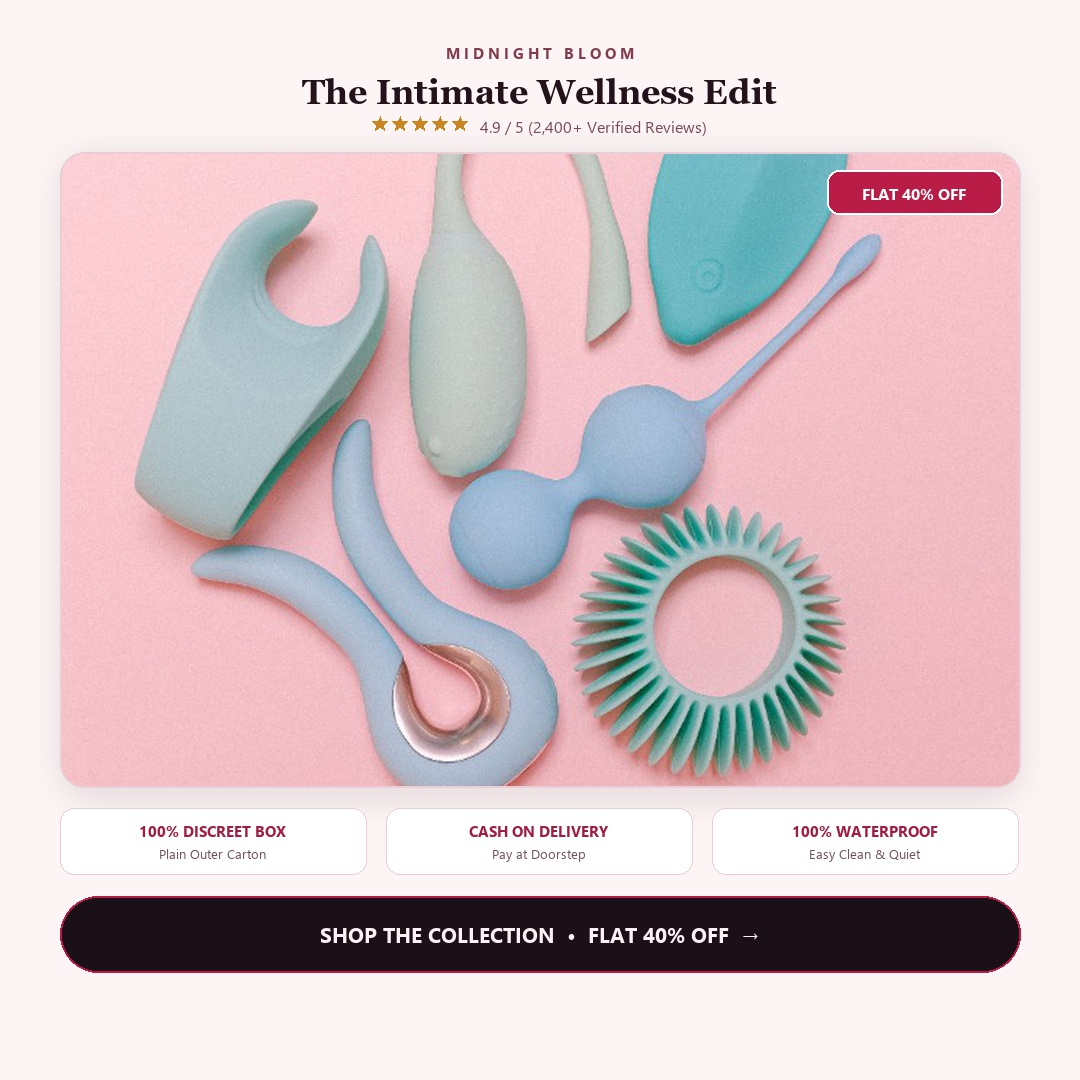
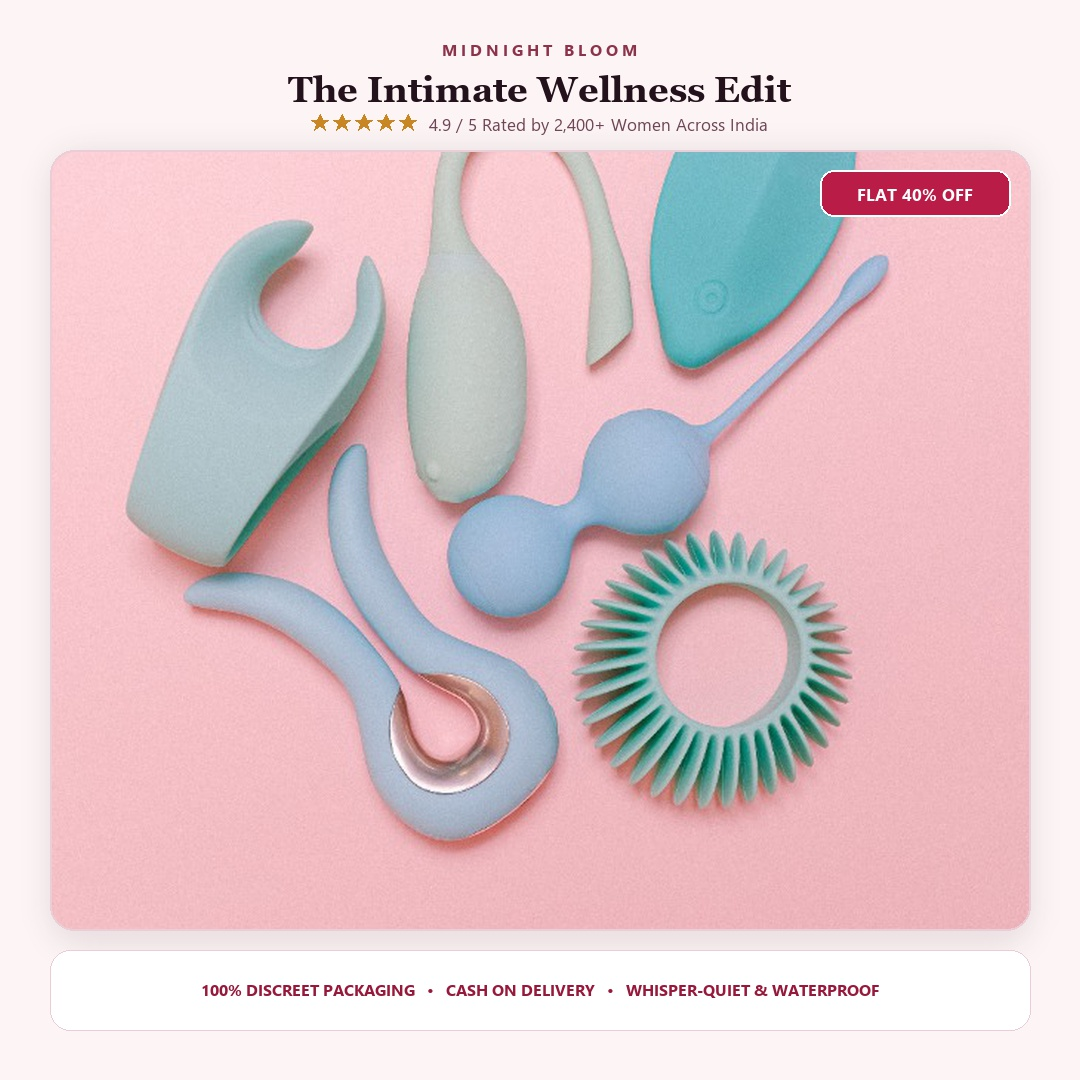
fix(ads): native feed formatting with left-shifted crop and clean trust strip

diff --git a/scripts/generate_meta_feed_ads.py b/scripts/generate_meta_feed_ads.py
@@ -1,0 +1,383 @@
+import os
+import math
+import shutil
+from PIL import Image, ImageDraw, ImageFont, ImageFilter
+
+def get_font(name, size):
+    paths = [
+        f"C:/Windows/Fonts/{name}",
+        f"C:/Windows/Fonts/{name.lower()}",
+        f"C:/Windows/Fonts/{name.upper()}",
+    ]
+    for p in paths:
+        if os.path.exists(p):
+            try:
+                return ImageFont.truetype(p, size)
+            except Exception:
+                pass
+    for fallback in ["georgiab.ttf", "georgia.ttf", "segoeuib.ttf", "segoeui.ttf", "arialbd.ttf", "arial.ttf"]:
+        p = f"C:/Windows/Fonts/{fallback}"
+        if os.path.exists(p):
+            try:
+                return ImageFont.truetype(p, size)
+            except Exception:
+                pass
+    return ImageFont.load_default()
+
+def draw_pill(draw, x1, y1, x2, y2, bg_color, outline_color=None, radius=16, width=1):
+    draw.rounded_rectangle([x1, y1, x2, y2], radius=radius, fill=bg_color, outline=outline_color, width=width)
+
+def draw_star(draw, cx, cy, radius, fill_color, points=5):
+    coords = []
+    inner_radius = radius * 0.42
+    for i in range(points * 2):
+        r = radius if i % 2 == 0 else inner_radius
+        angle = i * math.pi / points - math.pi / 2
+        x = cx + r * math.cos(angle)
+        y = cy + r * math.sin(angle)
+        coords.append((x, y))
+    draw.polygon(coords, fill=fill_color)
+
+def draw_star_rating(draw, start_x, start_y, star_size=9, gap=4, count=5, fill_color=(212, 175, 55, 255)):
+    for i in range(count):
+        cx = start_x + i * (star_size * 2 + gap) + star_size
+        cy = start_y + star_size
+        draw_star(draw, cx, cy, star_size, fill_color)
+
+# =========================================================================
+# CLEAN META FEED ADS (1:1 Square - 1080 x 1080)
+# Designed specifically for Instagram/Facebook Feed without clutter
+# =========================================================================
+def create_meta_feed_ad(src_path, out_path, headline, sub_benefit, discount_text, trust_points, theme="rose", crop_rect=None):
+    W, H = 1080, 1080
+    
+    if theme == "dark":
+        bg_main = (16, 12, 18, 255)
+        text_brand = (212, 175, 55, 255)
+        text_head = (255, 250, 245, 255)
+        text_sub = (205, 185, 195, 255)
+        card_border = (212, 175, 55, 180)
+        badge_bg = (212, 175, 55, 255)
+        badge_text = (16, 12, 18, 255)
+        strip_bg = (28, 20, 30, 255)
+        strip_border = (80, 55, 75, 255)
+        strip_text_color = (235, 210, 160, 255)
+        star_color = (212, 175, 55, 255)
+    else:
+        bg_main = (253, 244, 245, 255)
+        text_brand = (140, 50, 75, 255)
+        text_head = (35, 18, 28, 255)
+        text_sub = (110, 70, 85, 255)
+        card_border = (235, 205, 215, 255)
+        badge_bg = (185, 28, 70, 255)
+        badge_text = (255, 255, 255, 255)
+        strip_bg = (255, 255, 255, 255)
+        strip_border = (235, 205, 215, 255)
+        strip_text_color = (150, 25, 60, 255)
+        star_color = (200, 135, 35, 255)
+
+    base = Image.new("RGBA", (W, H), bg_main)
+    draw = ImageDraw.Draw(base)
+
+    # Fonts
+    font_brand = get_font("segoeuib.ttf", 16)
+    font_head = get_font("georgiab.ttf", 36)
+    font_sub = get_font("segoeui.ttf", 17)
+    font_badge = get_font("segoeuib.ttf", 17)
+    font_strip = get_font("segoeuib.ttf", 16)
+
+    # 1. TOP HEADER (40px padding, clean breathing room)
+    brand_t = "M I D N I G H T   B L O O M"
+    bb = font_brand.getbbox(brand_t)
+    bw = bb[2] - bb[0]
+    draw.text(((W - bw) // 2, 38), brand_t, fill=text_brand, font=font_brand)
+
+    hb = font_head.getbbox(headline)
+    hw = hb[2] - hb[0]
+    draw.text(((W - hw) // 2, 68), headline, fill=text_head, font=font_head)
+
+    # Rating & Benefit Row
+    sb = font_sub.getbbox(sub_benefit)
+    sw = sb[2] - sb[0]
+    stars_w = 5 * 18 + 4 * 4
+    total_r_w = stars_w + 12 + sw
+    start_rx = (W - total_r_w) // 2
+    draw_star_rating(draw, start_rx, 114, star_size=9, gap=4, count=5, fill_color=star_color)
+    draw.text((start_rx + stars_w + 12, 112), sub_benefit, fill=text_sub, font=font_sub)
+
+    # 2. HERO IMAGE CARD (Full 980 x 780 Area - Fills the main frame elegantly)
+    card_x = 50
+    card_y = 150
+    card_w = 980
+    card_h = 780
+    card_radius = 24
+
+    src = Image.open(src_path).convert("RGBA")
+    if crop_rect:
+        src = src.crop(crop_rect)
+
+    scale = max(card_w / src.width, card_h / src.height)
+    new_w = int(src.width * scale)
+    new_h = int(src.height * scale)
+    src_scaled = src.resize((new_w, new_h), Image.Resampling.LANCZOS)
+    
+    crop_x = (new_w - card_w) // 2
+    crop_y = (new_h - card_h) // 2
+    src_card = src_scaled.crop((crop_x, crop_y, crop_x + card_w, crop_y + card_h))
+
+    # Soft Shadow
+    shadow = Image.new("RGBA", (W, H), (0, 0, 0, 0))
+    s_draw = ImageDraw.Draw(shadow)
+    shadow_color = (0, 0, 0, 50) if theme == "dark" else (180, 130, 140, 45)
+    s_draw.rounded_rectangle([card_x + 6, card_y + 8, card_x + card_w - 6, card_y + card_h + 8], radius=card_radius, fill=shadow_color)
+    shadow = shadow.filter(ImageFilter.GaussianBlur(16))
+    base.alpha_composite(shadow)
+
+    mask = Image.new("L", (card_w, card_h), 0)
+    m_draw = ImageDraw.Draw(mask)
+    m_draw.rounded_rectangle([0, 0, card_w, card_h], radius=card_radius, fill=255)
+    base.paste(src_card, (card_x, card_y), mask)
+
+    draw = ImageDraw.Draw(base)
+    draw.rounded_rectangle([card_x, card_y, card_x + card_w, card_y + card_h], radius=card_radius, outline=card_border, width=2)
+
+    # Floating Discount Badge (Top-Right inside Card)
+    badge_w = 190
+    badge_h = 46
+    bx1 = card_x + card_w - badge_w - 20
+    by1 = card_y + 20
+    draw_pill(draw, bx1, by1, bx1 + badge_w, by1 + badge_h, badge_bg, (255, 255, 255, 255), radius=14, width=2)
+    
+    db = font_badge.getbbox(discount_text)
+    dw = db[2] - db[0]
+    draw.text((bx1 + (badge_w - dw) // 2, by1 + 12), discount_text, fill=badge_text, font=font_badge)
+
+    # 3. BOTTOM TRUST STRIP (980px Width, Clean & Uncluttered)
+    strip_y = 950
+    strip_h = 80
+    draw_pill(draw, card_x, strip_y, card_x + card_w, strip_y + strip_h, strip_bg, strip_border, radius=20, width=1)
+    
+    # 3 Trust items with dividers
+    trust_text = "   •   ".join(trust_points)
+    tb = font_strip.getbbox(trust_text)
+    tw = tb[2] - tb[0]
+    draw.text((card_x + (card_w - tw) // 2, strip_y + 28), trust_text, fill=strip_text_color, font=font_strip)
+
+    final_img = base.convert("RGB")
+    final_img.save(out_path, "JPEG", quality=95)
+    print(f"Saved Feed Ad: {out_path}")
+
+
+# =========================================================================
+# 4:5 VERTICAL PORTRAIT FEED ADS (1080 x 1350)
+# The highest converting mobile Instagram/Facebook feed format
+# =========================================================================
+def create_portrait_4_5_ad(src_path, out_path, headline, sub_benefit, discount_text, trust_points, theme="rose", crop_rect=None):
+    W, H = 1080, 1350
+    
+    if theme == "dark":
+        bg_main = (16, 12, 18, 255)
+        text_brand = (212, 175, 55, 255)
+        text_head = (255, 250, 245, 255)
+        text_sub = (205, 185, 195, 255)
+        card_border = (212, 175, 55, 180)
+        badge_bg = (212, 175, 55, 255)
+        badge_text = (16, 12, 18, 255)
+        strip_bg = (28, 20, 30, 255)
+        strip_border = (80, 55, 75, 255)
+        strip_text_color = (235, 210, 160, 255)
+        star_color = (212, 175, 55, 255)
+    else:
+        bg_main = (253, 244, 245, 255)
+        text_brand = (140, 50, 75, 255)
+        text_head = (35, 18, 28, 255)
+        text_sub = (110, 70, 85, 255)
+        card_border = (235, 205, 215, 255)
+        badge_bg = (185, 28, 70, 255)
+        badge_text = (255, 255, 255, 255)
+        strip_bg = (255, 255, 255, 255)
+        strip_border = (235, 205, 215, 255)
+        strip_text_color = (150, 25, 60, 255)
+        star_color = (200, 135, 35, 255)
+
+    base = Image.new("RGBA", (W, H), bg_main)
+    draw = ImageDraw.Draw(base)
+
+    font_brand = get_font("segoeuib.ttf", 17)
+    font_head = get_font("georgiab.ttf", 40)
+    font_sub = get_font("segoeui.ttf", 18)
+    font_badge = get_font("segoeuib.ttf", 18)
+    font_strip = get_font("segoeuib.ttf", 17)
+
+    # 1. Top Header
+    brand_t = "M I D N I G H T   B L O O M"
+    bb = font_brand.getbbox(brand_t)
+    bw = bb[2] - bb[0]
+    draw.text(((W - bw) // 2, 45), brand_t, fill=text_brand, font=font_brand)
+
+    hb = font_head.getbbox(headline)
+    hw = hb[2] - hb[0]
+    draw.text(((W - hw) // 2, 78), headline, fill=text_head, font=font_head)
+
+    # Rating Row
+    sb = font_sub.getbbox(sub_benefit)
+    sw = sb[2] - sb[0]
+    stars_w = 5 * 20 + 4 * 5
+    total_r_w = stars_w + 14 + sw
+    start_rx = (W - total_r_w) // 2
+    draw_star_rating(draw, start_rx, 130, star_size=10, gap=5, count=5, fill_color=star_color)
+    draw.text((start_rx + stars_w + 14, 128), sub_benefit, fill=text_sub, font=font_sub)
+
+    # 2. Hero Card (980 x 1030 px)
+    card_x = 50
+    card_y = 175
+    card_w = 980
+    card_h = 1030
+    card_radius = 26
+
+    src = Image.open(src_path).convert("RGBA")
+    if crop_rect:
+        src = src.crop(crop_rect)
+
+    scale = max(card_w / src.width, card_h / src.height)
+    new_w = int(src.width * scale)
+    new_h = int(src.height * scale)
+    src_scaled = src.resize((new_w, new_h), Image.Resampling.LANCZOS)
+    
+    crop_x = (new_w - card_w) // 2
+    crop_y = (new_h - card_h) // 2
+    src_card = src_scaled.crop((crop_x, crop_y, crop_x + card_w, crop_y + card_h))
+
+    shadow = Image.new("RGBA", (W, H), (0, 0, 0, 0))
+    s_draw = ImageDraw.Draw(shadow)
+    shadow_color = (0, 0, 0, 50) if theme == "dark" else (180, 130, 140, 45)
+    s_draw.rounded_rectangle([card_x + 6, card_y + 8, card_x + card_w - 6, card_y + card_h + 8], radius=card_radius, fill=shadow_color)
+    shadow = shadow.filter(ImageFilter.GaussianBlur(16))
+    base.alpha_composite(shadow)
+
+    mask = Image.new("L", (card_w, card_h), 0)
+    m_draw = ImageDraw.Draw(mask)
+    m_draw.rounded_rectangle([0, 0, card_w, card_h], radius=card_radius, fill=255)
+    base.paste(src_card, (card_x, card_y), mask)
+
+    draw = ImageDraw.Draw(base)
+    draw.rounded_rectangle([card_x, card_y, card_x + card_w, card_y + card_h], radius=card_radius, outline=card_border, width=2)
+
+    # Floating Discount Badge
+    badge_w = 210
+    badge_h = 50
+    bx1 = card_x + card_w - badge_w - 24
+    by1 = card_y + 24
+    draw_pill(draw, bx1, by1, bx1 + badge_w, by1 + badge_h, badge_bg, (255, 255, 255, 255), radius=15, width=2)
+    
+    db = font_badge.getbbox(discount_text)
+    dw = db[2] - db[0]
+    draw.text((bx1 + (badge_w - dw) // 2, by1 + 13), discount_text, fill=badge_text, font=font_badge)
+
+    # 3. Bottom Trust Strip
+    strip_y = 1230
+    strip_h = 80
+    draw_pill(draw, card_x, strip_y, card_x + card_w, strip_y + strip_h, strip_bg, strip_border, radius=20, width=1)
+    
+    trust_text = "   •   ".join(trust_points)
+    tb = font_strip.getbbox(trust_text)
+    tw = tb[2] - tb[0]
+    draw.text((card_x + (card_w - tw) // 2, strip_y + 27), trust_text, fill=strip_text_color, font=font_strip)
+
+    final_img = base.convert("RGB")
+    final_img.save(out_path, "JPEG", quality=95)
+    print(f"Saved 4:5 Portrait Feed Ad: {out_path}")
+
+
+if __name__ == "__main__":
+    img1 = r"C:\Users\20092\.gemini\antigravity\brain\e8f01de8-8d5e-4112-84e4-02f1b613f50d\.user_uploaded\media_1791038633944.jpg"
+    img2 = r"C:\Users\20092\.gemini\antigravity\brain\e8f01de8-8d5e-4112-84e4-02f1b613f50d\.user_uploaded\media_1791038672388.jpg"
+    img3 = r"C:\Users\20092\.gemini\antigravity\brain\e8f01de8-8d5e-4112-84e4-02f1b613f50d\.user_uploaded\media_1791038633915.jpg"
+
+    os.makedirs("public/ads", exist_ok=True)
+
+    # =========================================================
+    # AD 1: The Modern Wellness Edit (Mint/Pastel)
+    # =========================================================
+    trust_1 = ["100% DISCREET PACKAGING", "CASH ON DELIVERY", "WHISPER-QUIET & WATERPROOF"]
+    
+    # 1:1 Feed
+    create_meta_feed_ad(
+        img1, "public/ads/ad_1_mint_feed.jpg",
+        headline="The Intimate Wellness Edit",
+        sub_benefit="4.9 / 5 Rated by 2,400+ Women Across India",
+        discount_text="FLAT 40% OFF",
+        trust_points=trust_1,
+        theme="rose",
+        crop_rect=(10, 140, 672, 820)
+    )
+    # 4:5 Mobile Feed
+    create_portrait_4_5_ad(
+        img1, "public/ads/ad_1_mint_portrait.jpg",
+        headline="The Intimate Wellness Edit",
+        sub_benefit="4.9 / 5 Rated by 2,400+ Women Across India",
+        discount_text="FLAT 40% OFF",
+        trust_points=trust_1,
+        theme="rose",
+        crop_rect=(10, 140, 672, 920)
+    )
+
+    # =========================================================
+    # AD 2: Luxury Self-Care Redefined (Silk Robe Lifestyle)
+    # Adjusted to left as requested: crop_rect shifted leftwards!
+    # =========================================================
+    trust_2 = ["100% DISCREET DELIVERY", "CASH ON DELIVERY", "1-YEAR REPLACEMENT WARRANTY"]
+    
+    # 1:1 Feed
+    create_meta_feed_ad(
+        img2, "public/ads/ad_2_luxury_lifestyle_feed.jpg",
+        headline="Luxury Self-Care Redefined",
+        sub_benefit="Rated 4.95 / 5 by Luxury Wellness Aficionados",
+        discount_text="SAVE 40% TODAY",
+        trust_points=trust_2,
+        theme="dark",
+        crop_rect=(100, 140, 660, 740) # Shifted leftwards!
+    )
+    # 4:5 Mobile Feed
+    create_portrait_4_5_ad(
+        img2, "public/ads/ad_2_lifestyle_portrait.jpg",
+        headline="Luxury Self-Care Redefined",
+        sub_benefit="Rated 4.95 / 5 by Luxury Wellness Aficionados",
+        discount_text="SAVE 40% TODAY",
+        trust_points=trust_2,
+        theme="dark",
+        crop_rect=(80, 120, 660, 840) # Shifted leftwards!
+    )
+
+    # =========================================================
+    # AD 3: Curated Essentials Collection (Pastel Essentials)
+    # =========================================================
+    trust_3 = ["100% UNBRANDED PLAIN BOX", "FREE COD SHIPPING", "100% MEDICAL GRADE SILICONE"]
+    
+    # 1:1 Feed
+    create_meta_feed_ad(
+        img3, "public/ads/ad_3_pastel_bundle_feed.jpg",
+        headline="Curated Wellness Essentials",
+        sub_benefit="4.9 / 5 Rated by 1,850+ Verified Buyers",
+        discount_text="FROM ₹1,499",
+        trust_points=trust_3,
+        theme="rose",
+        crop_rect=(10, 320, 674, 820)
+    )
+    # 4:5 Mobile Feed
+    create_portrait_4_5_ad(
+        img3, "public/ads/ad_3_bundle_portrait.jpg",
+        headline="Curated Wellness Essentials",
+        sub_benefit="4.9 / 5 Rated by 1,850+ Verified Buyers",
+        discount_text="FROM ₹1,499",
+        trust_points=trust_3,
+        theme="rose",
+        crop_rect=(10, 280, 674, 900)
+    )
+
+    # Copy files to artifact dir
+    dest_dir = r"C:\Users\20092\.gemini\antigravity\brain\e8f01de8-8d5e-4112-84e4-02f1b613f50d"
+    for f in os.listdir("public/ads"):
+        if f.endswith(".jpg"):
+            shutil.copy(os.path.join("public/ads", f), os.path.join(dest_dir, f))
+    print("All Meta Feed & Portrait ads generated successfully!")
